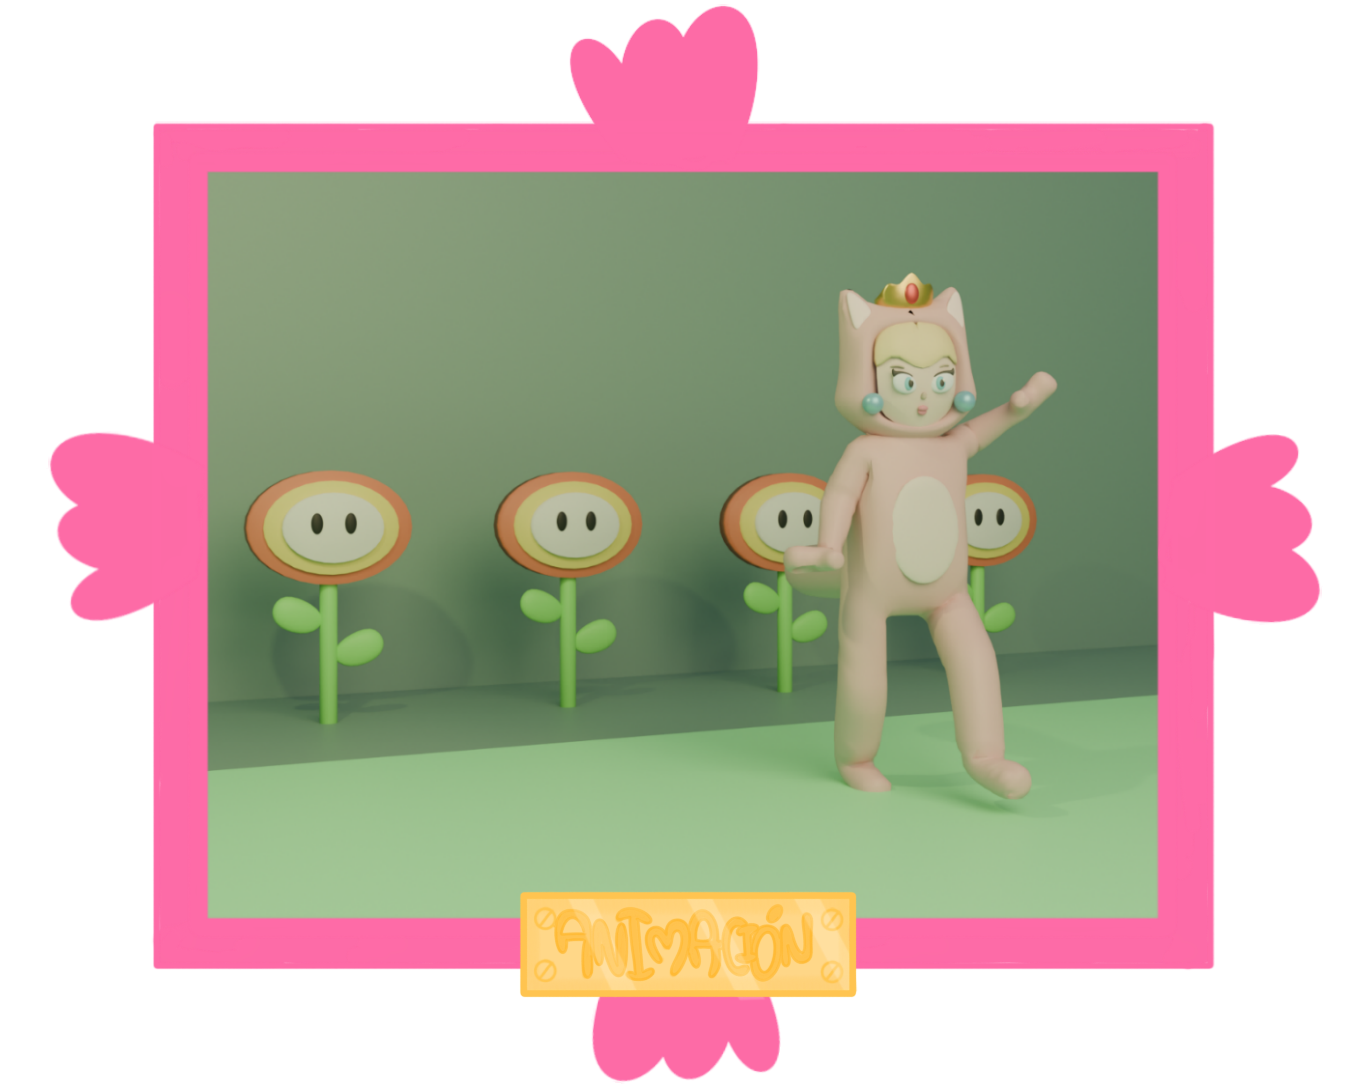
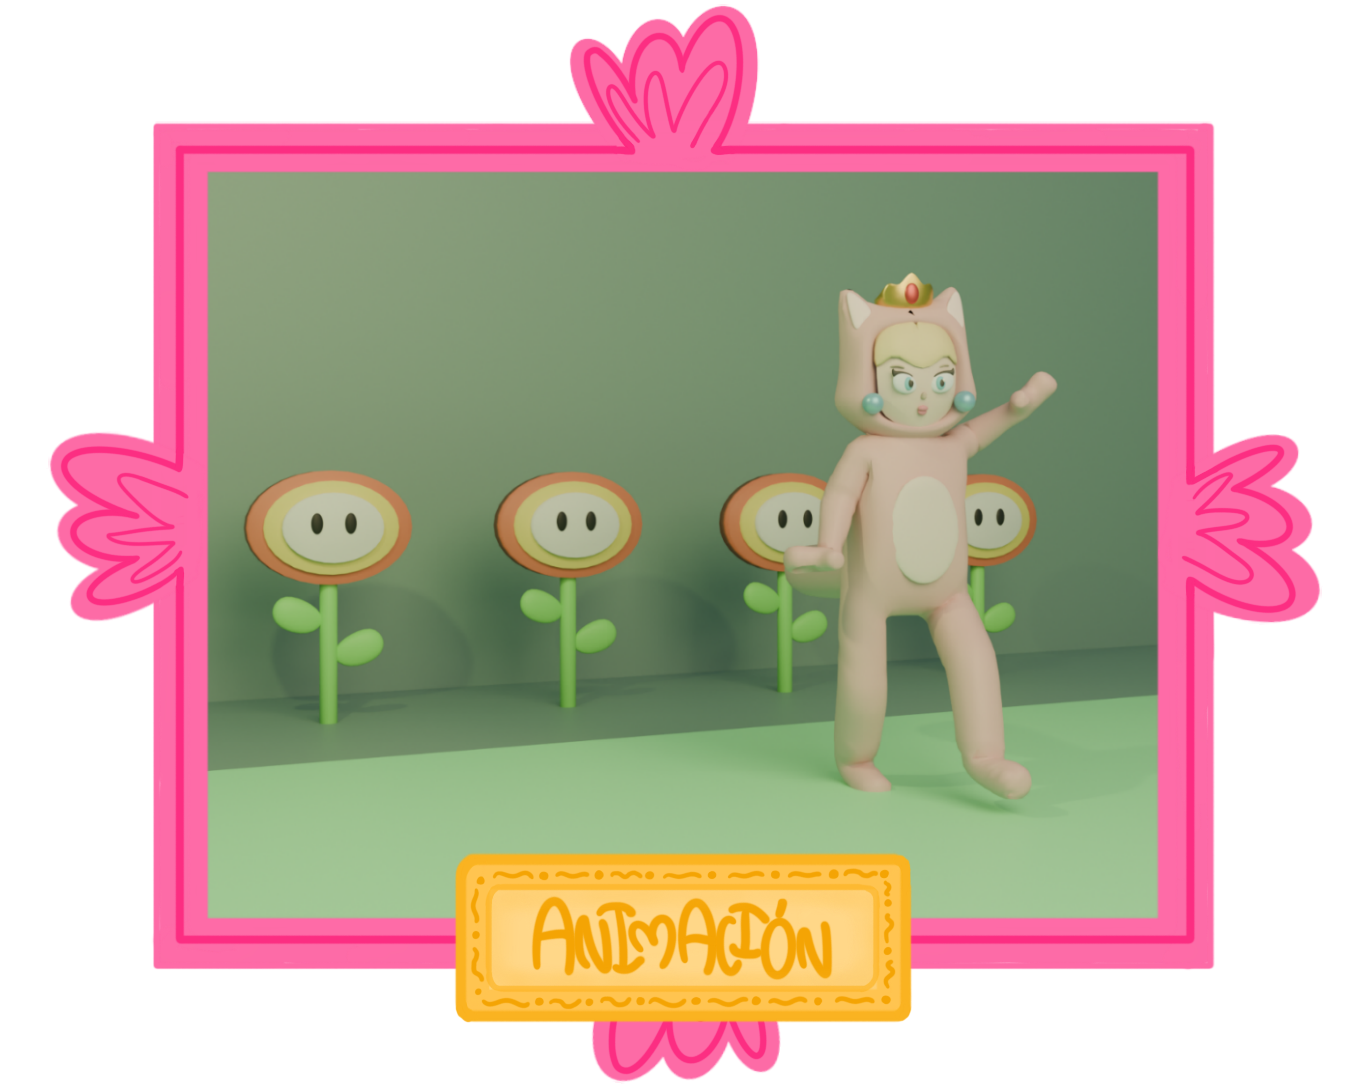
all

Changed region(s): [[0.0307, 0.0, 0.9504, 0.9982]]

diff --git a/src/views/AboutView.vue b/src/views/AboutView.vue
@@ -3,14 +3,24 @@
     <!-- Contenedor para las imágenes y contenido -->
     <div class="content-container">
       <!-- Imagen de la estatua a la izquierda -->
-
       <img class="image-left" src="/img/estatua.png" alt="Estatua" />
 
       <!-- Cuadro grande a la derecha que habla sobre mí -->
       <div class="about-text">
-        <img src="/img/aboutme.png" alt="Cuadro sobre mí" class="about-image" />
-        <!-- Imagen pequeña de un florero de decoración debajo del cuadro -->
-        <img class="decorative-image" src="/img/florero.png" alt="Florero" />
+        <div class="about-image-container">
+          <img
+            src="/img/aboutme.png"
+            alt="Cuadro sobre mí"
+            class="about-image"
+          />
+          <!-- Imágenes decorativas alrededor -->
+          <img
+            v-for="(src, index) in decorativeImages"
+            :key="index"
+            :src="src"
+            :class="`decorative-image decorative-image-${index + 1}`"
+          />
+        </div>
       </div>
     </div>
   </div>
@@ -18,6 +28,18 @@
 
 <script setup>
 import { ref } from "vue";
+
+// Lista de imágenes decorativas
+const decorativeImages = [
+  "/img/deco1.png",
+  "/img/deco2.png",
+  "/img/deco3.png",
+  "/img/deco4.png",
+  "/img/deco5.png",
+  "/img/deco6.png",
+  "/img/deco7.png",
+  "/img/deco8.png",
+];
 </script>
 
 <style scoped>
@@ -38,6 +60,12 @@ import { ref } from "vue";
   width: 100%;
 }
 
+.image-left {
+  flex: 1;
+  max-width: 40%; /* Asegura que no ocupe demasiado espacio */
+  height: auto;
+}
+
 .about-text {
   flex: 2;
   display: flex;
@@ -47,16 +75,73 @@ import { ref } from "vue";
   margin-left: 20px; /* Despeja la imagen grande del borde derecho */
 }
 
+.about-image-container {
+  position: relative;
+  width: 100%;
+  max-width: 500px;
+}
+
 .about-image {
-  max-width: 95%;
+  width: 100%;
   height: auto;
-  margin-bottom: 10px; /* Espacio entre el cuadro y la imagen del florero */
+  position: relative;
+  z-index: 1; /* Mantiene esta imagen al frente */
 }
 
 .decorative-image {
-  width: 50%;
-
   position: absolute;
+  width: 50px; /* Tamaño ajustable */
+  height: auto;
+  z-index: 0; /* Detrás de la imagen principal */
+  transform: rotate(0deg);
+}
+
+/* Posiciones específicas para las imágenes decorativas */
+.decorative-image-1 {
+  top: -20px;
+  left: -30px;
+  transform: rotate(-15deg);
+}
+
+.decorative-image-2 {
+  top: 10%;
+  left: 80%;
+  transform: rotate(10deg);
+}
+
+.decorative-image-3 {
   bottom: 10%;
+  left: -20px;
+  transform: rotate(-5deg);
+}
+
+.decorative-image-4 {
+  bottom: -20px;
+  right: -30px;
+  transform: rotate(20deg);
+}
+
+.decorative-image-5 {
+  top: 50%;
+  left: -40px;
+  transform: rotate(-25deg);
+}
+
+.decorative-image-6 {
+  top: -30px;
+  right: 10%;
+  transform: rotate(15deg);
+}
+
+.decorative-image-7 {
+  bottom: 20%;
+  right: -40px;
+  transform: rotate(5deg);
+}
+
+.decorative-image-8 {
+  bottom: -40px;
+  left: 50%;
+  transform: rotate(-10deg);
 }
 </style>

diff --git a/src/views/ProjectsView.vue b/src/views/ProjectsView.vue
@@ -48,11 +48,13 @@ const previousProject = () => {
 
 <template>
   <div class="project-container" v-if="projects.length > 0">
-    <!-- Botón de navegación a la izquierda -->
-    <button @click="previousProject" class="nav-button left-button">
-      &lt;
-    </button>
-
+    <!-- Imagen con función de botón de navegación a la izquierda -->
+    <img
+      @click="previousProject"
+      class="nav-button left-button"
+      src="/img/left-button.png"
+      alt="Anterior"
+    />
     <!-- Contenedor de proyectos con animación -->
     <div
       class="projects-wrapper"
@@ -63,11 +65,13 @@ const previousProject = () => {
       <!-- Componente ProjectCard, recibe el proyecto actual -->
       <ProjectCard :project="projects[currentIndex]" />
     </div>
-
-    <!-- Botón de navegación a la derecha -->
-    <button @click="nextProject" class="nav-button right-button">&gt;</button>
-
-    <img class="museum-posts" src="/img/postes.png" alt="Postes de museo" />
+    <img
+      @click="nextProject"
+      class="nav-button right-button"
+      src="/img/right-button.png"
+      alt="Siguiente"
+    />
+    <!-- Imagen con función de botón de navegación a la derecha -->
   </div>
 </template>
 
@@ -83,22 +87,21 @@ const previousProject = () => {
   overflow: hidden;
 }
 
+/* Imágenes como botones */
 .nav-button {
-  background-color: rgba(0, 0, 0, 0.5);
-  color: white;
-  border: none;
-  padding: 10px 20px;
-  cursor: pointer;
-  font-size: 24px;
-  border-radius: 50%;
+  cursor: pointer; /* Cambia el cursor a mano al pasar el ratón */
+  position: absolute;
+  top: -40px; /* Eleva los botones cerca del header */
+  transition: transform 0.2s ease;
+  z-index: 99;
 }
 
 .left-button {
-  right: 10px;
+  right: 22px;
 }
 
 .right-button {
-  left: 10px;
+  left: 22px;
 }
 
 /* Contenedor de las tarjetas con transición */

diff --git a/src/components/ProjectCard.vue b/src/components/ProjectCard.vue
@@ -1,6 +1,16 @@
 <template>
   <div class="project-card">
-    <img :src="project.img" alt="Imagen del proyecto" />
+    <video
+      v-if="project.link_video"
+      :src="project.link_video"
+      muted
+      loop
+      autoplay
+      playsinline
+      class="project-video"
+    ></video>
+    <img v-else :src="project.img" alt="Imagen del proyecto" />
+
     <div class="description"></div>
     <!-- Aquí podrás agregar más elementos en el futuro usando el objeto 'project' -->
   </div>
@@ -20,7 +30,7 @@ const props = defineProps({
 
 <style scoped>
 .project-card {
-  height: 450px; /* Altura fija para todas las tarjetas */
+  height: 550px; /* Altura fija para todas las tarjetas */
   width: auto; /* Ancho flexible */
   display: flex;
   justify-content: center;
@@ -39,6 +49,12 @@ const props = defineProps({
   width: auto; /* Mantiene la proporción de la imagen */
   display: block;
   margin: 0 auto;
+}
+
+video {
+  top: 0px;
+  position: relative;
+  height: 100vh;
 }
 
 .description {

diff --git a/src/views/HomeView.vue b/src/views/HomeView.vue
@@ -69,7 +69,7 @@ const goToProject = (link) => {
   display: grid;
   grid-template-columns: 1fr 1fr 1fr;
   grid-template-rows: 1fr 1fr;
-  gap: 10px;
+  gap: 15px;
   width: 80%;
   max-width: 1050px;
   padding: 20px;
@@ -112,6 +112,14 @@ const goToProject = (link) => {
 
 .img_estatua:hover {
   transform: translateX(-50%) scale(1.1) rotate(5deg) translateY(-2.5%);
+}
+
+.grid-item:nth-child(5) img {
+  width: 355px;
+}
+
+.grid-item:nth-child(1) img {
+  width: 355px;
 }
 
 @media (max-width: 768px) {
